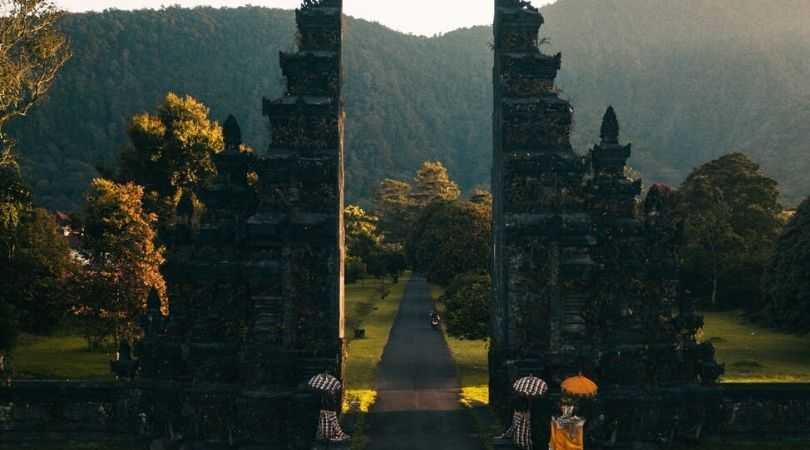
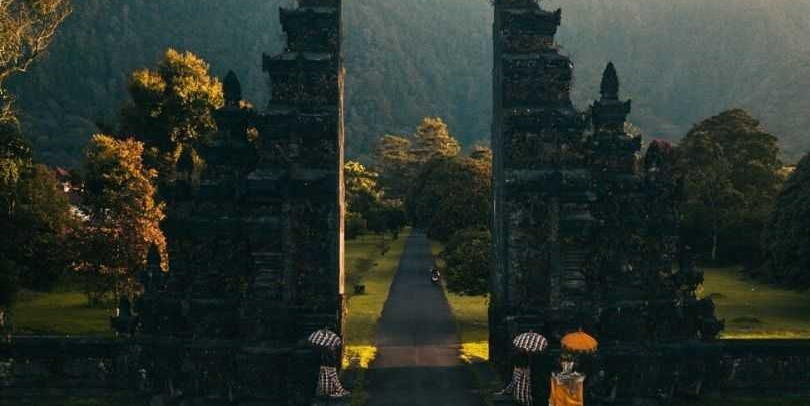
Banner2 fixed : and the & color fixed

diff --git a/css/styles.css b/css/styles.css
@@ -843,13 +843,16 @@ button[type="submit"]:hover {
 
 .hero{
     background-image: url('../img/banner2.jpg');
+    object-position: bottom;
+    object-fit: cover;
 }
 
 
+
 #h2-hero span:last-of-type::before{
-    color: var(--text-color);
-    font-size: 1.5rem;
-    padding-right: 0px;
+    color: var(--highlight);
+    font-size: 1.4rem;
+    padding-right: 2px;
 }
 .sec-title{
     font-size: 1.2rem;
